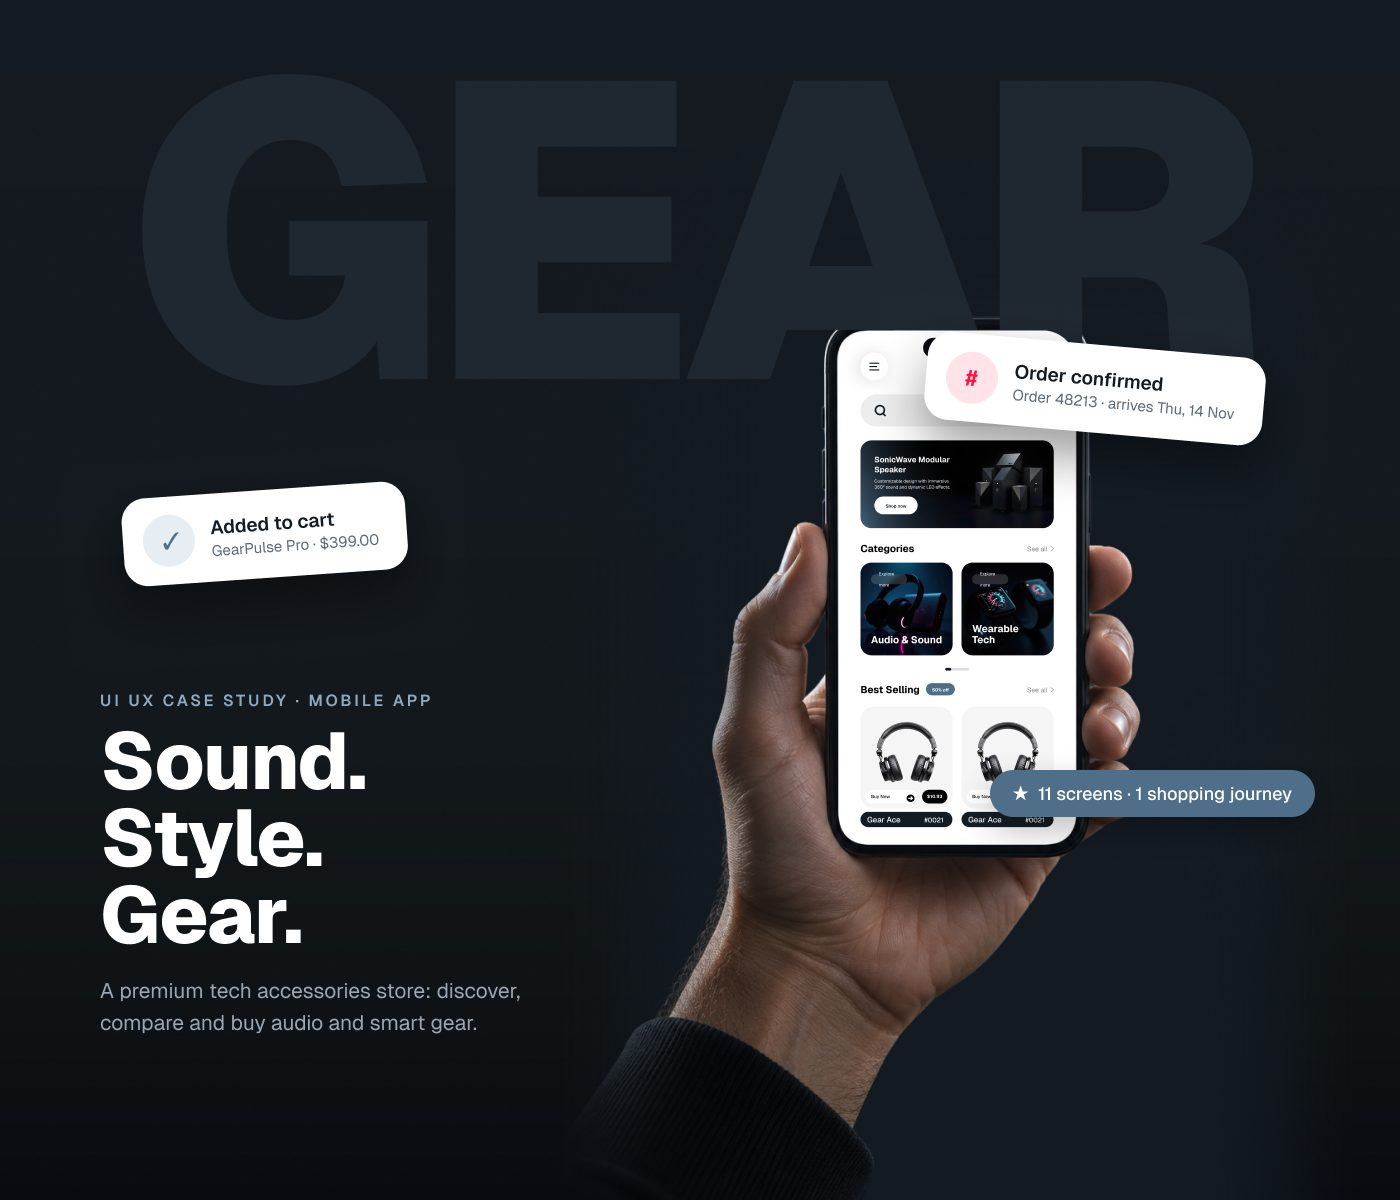
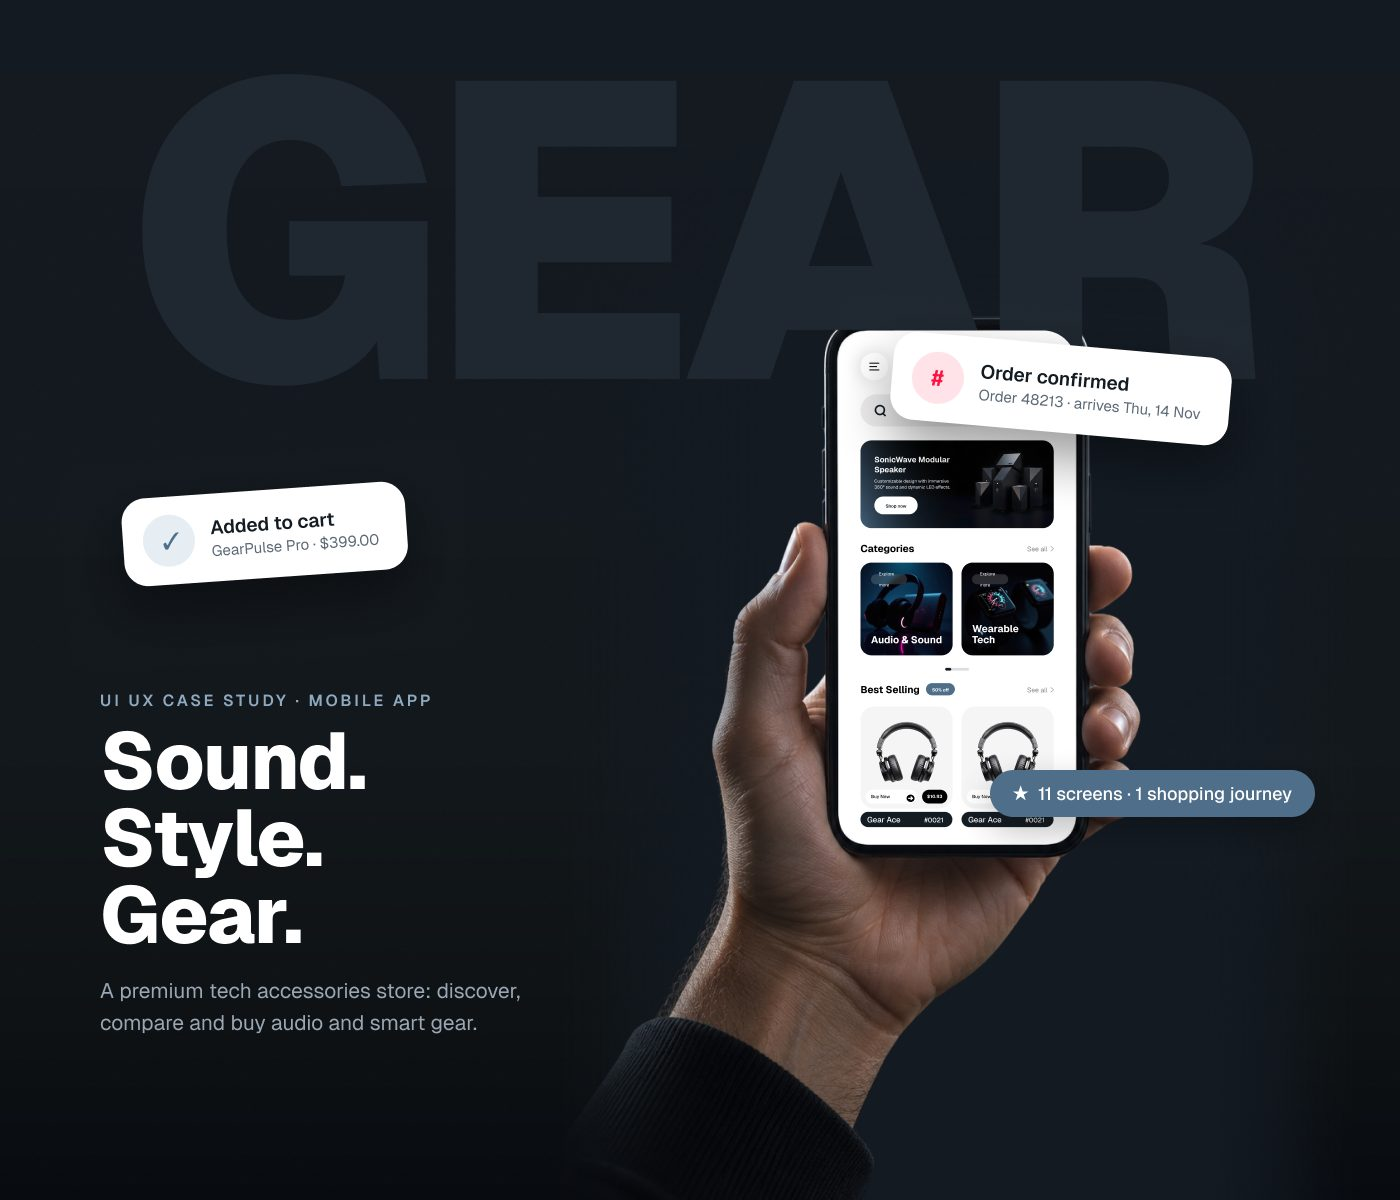
Case study pop-up always opens at the top; Gear hero, personas and split reveal refined

Changed region(s): [[0.6143, 0.2775, 0.9214, 0.37]]

diff --git a/app.js b/app.js
@@ -191,7 +191,6 @@ if (sheet) {
     body.innerHTML = caseHTML(i).replace(/ style="view-transition-name:[^"]*"/g, "");
     caseMeta(P[i]);
     reveal(body);
-    scroller.scrollTop = 0;
     if (sheet.hidden) {
       sheet.hidden = false;
       document.documentElement.classList.add("sheet-open");
@@ -199,6 +198,8 @@ if (sheet) {
       sheet.classList.add("on");
       sheet.querySelector(".sheet-close").focus({ preventScroll: true });
     }
+    // after unhiding (a hidden scroller ignores scrollTop) and instant, so CSS smooth scroll can't leave it mid-page
+    scroller.scrollTo({ top: 0, behavior: "instant" });
   };
   const close = () => {
     if (sheet.hidden) return;
